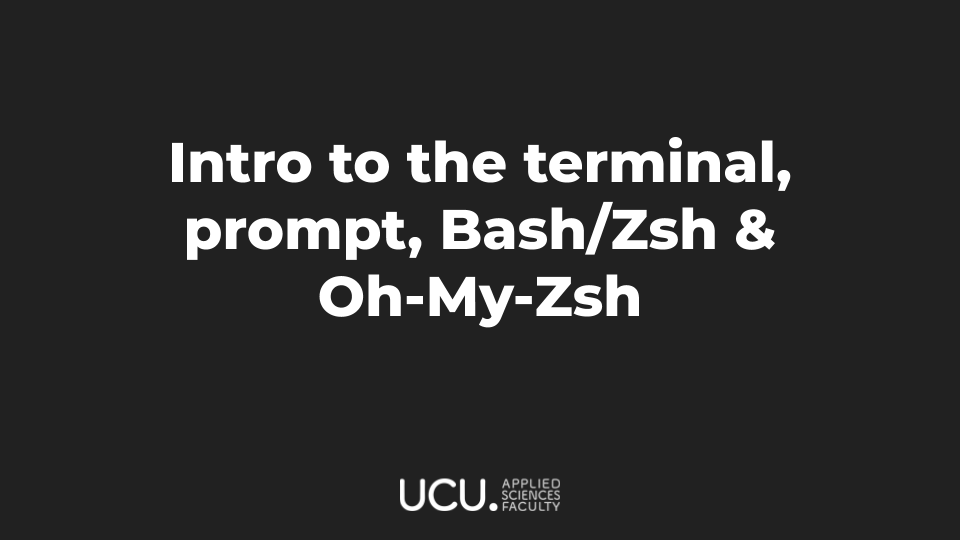
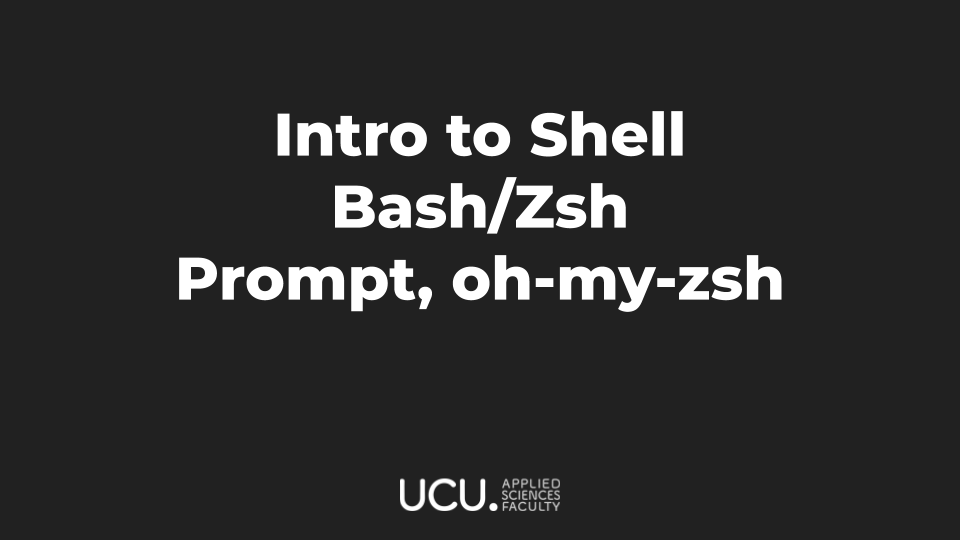
Delete duplicate presentation, update week 2's thumbnail

Changed region(s): [[0.1562, 0.2074, 0.8438, 0.6222]]

diff --git a/README.md b/README.md
@@ -1,9 +1,6 @@
 # Linux Club 2020
 UCU Linux club 20/21 repo with the schedule, useful links and presentations.
 
-### First presentation
-### [![](images/week0.png)](https://docs.google.com/presentation/d/1EbZjD7uIL3l39Jzz0QT-iJm46EA35rHrbKP2FhfYaxk/edit?usp=sharing)
-
 ### Pre-requirements:
 #### Very important:
 - Personal laptop.
